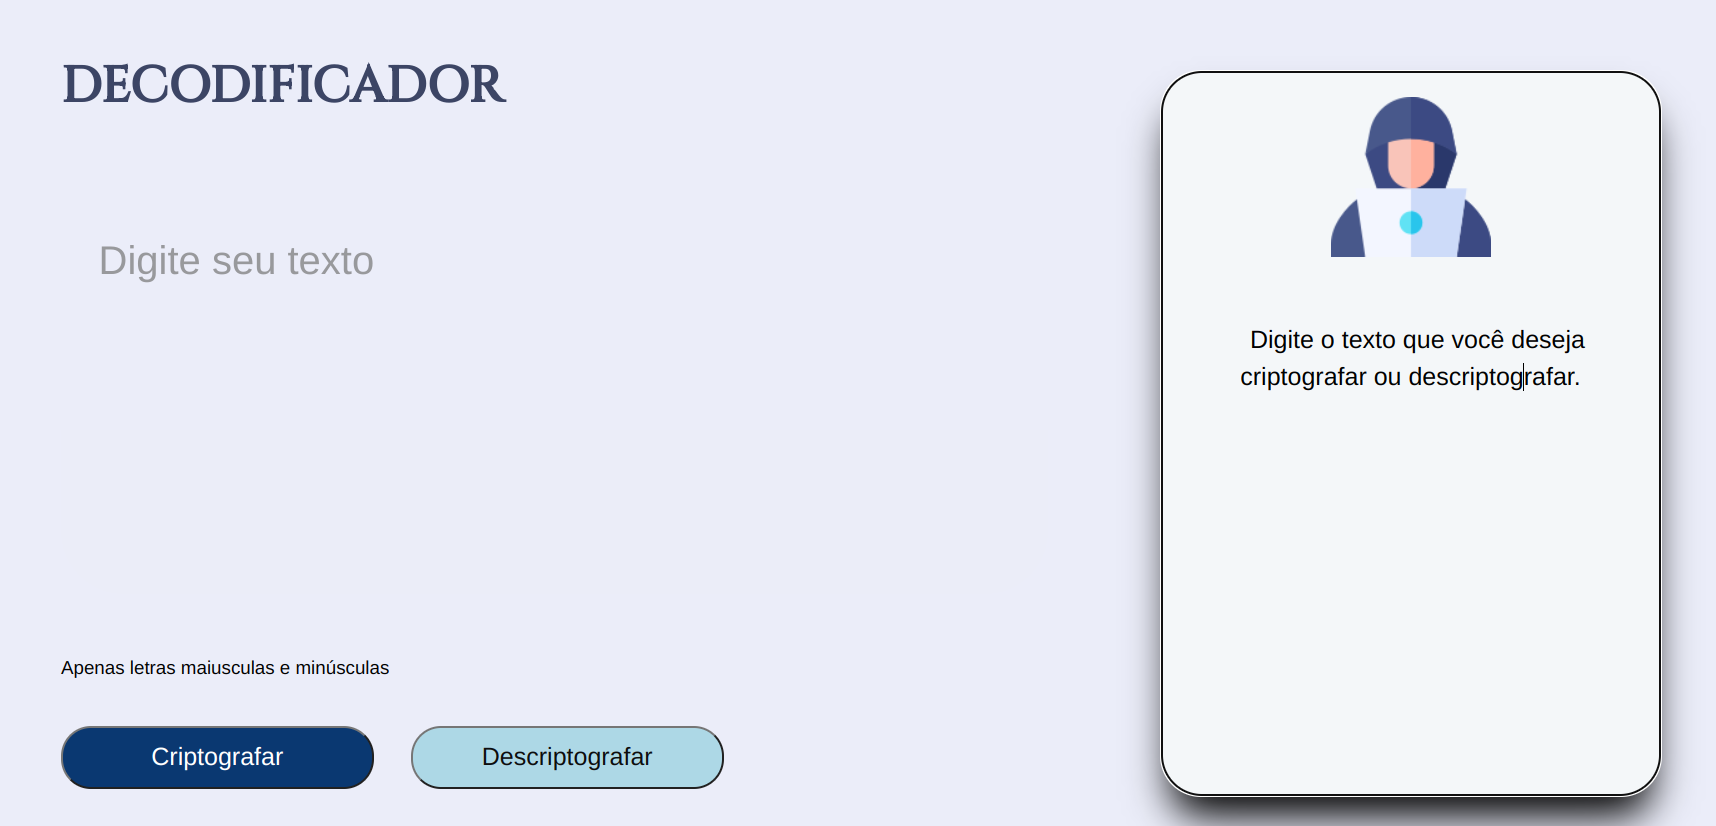
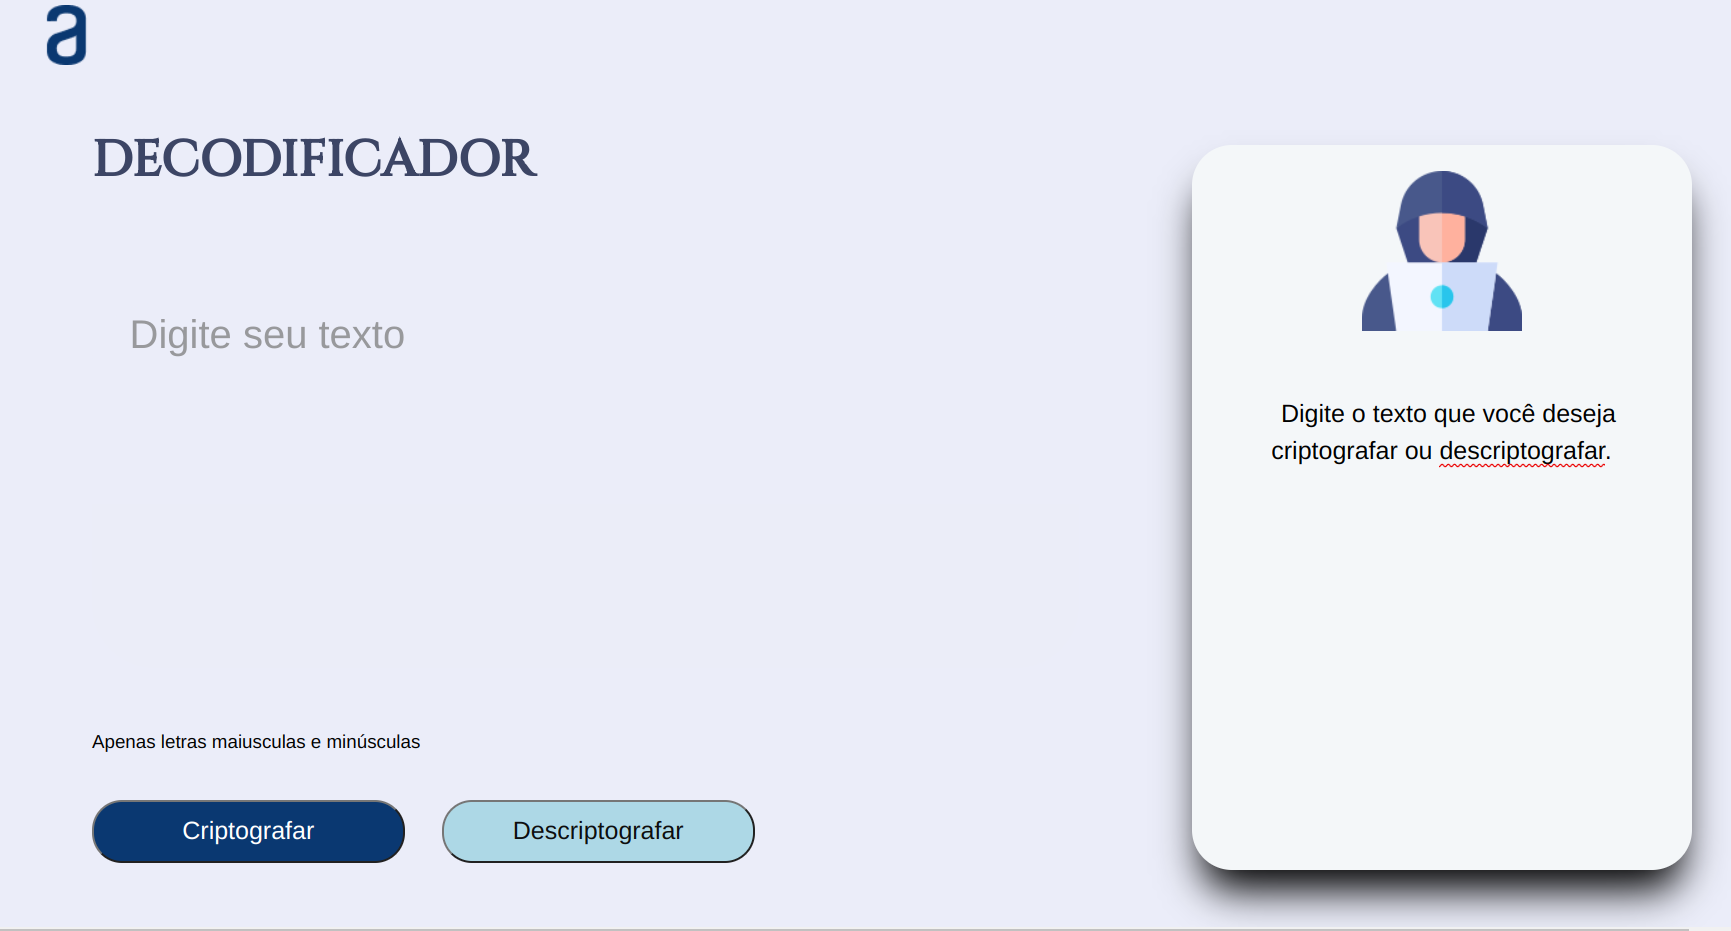
Modificando cards

diff --git a/index.html b/index.html
@@ -342,7 +342,7 @@
                                             <div class="d-flex justify-content-center">
                                                 <a href="https://laurienyestevo.github.io/digital-watch/"
                                                     target='_blank' class="btn btn-outline-dark me-3"><i class="bi bi-github"></i></a>
-                                                <a href="" target='_blank'
+                                                <a href="https://laurienyestevo.github.io/digital-watch/" target='_blank'
                                                     class="btn btn-outline-primary"><i class="bi bi-link-45deg"></i></a>
                                             </div>
                                         </div>
@@ -350,8 +350,10 @@
                                 </div>
                                 <div class="col">
                                     <div class="card">
-                                        <img src="static/img/pomodore.png" class="card-img-top img-fluid w-100"
+                                        <a href="https://laurienyestevo.github.io/pomodore/">
+                                            <img src="static/img/pomodore.png" class="card-img-top img-fluid w-100"
                                             alt="print do pomodoro">
+                                        </a>
                                         <div class="card-body">
                                             <h5 class="card-title">Pomodoro</h5>
                                             <p class="card-text">Projeto utilizando CSS , HTML e JavaScript</p>
@@ -372,14 +374,14 @@
                             <div class="row row-cols-1 row-cols-md-3 g-4">
                                 <div class="col">
                                     <div class="card h-100">
-                                        <img src="static/img/decodificador.png" class="card-img-top img-fluid w-100"
+                                        <img src="static/img/decodificador.png"  class="card-img-top img-fluid w-100 h-300"
                                             alt="print do site decodificador">
                                         <div class="card-body">Decodificador</h5>
                                             <p class="card-text">Projeto utilizando CSS , HTML e JavaScript</p>
                                             <div class="d-flex justify-content-center">
                                                 <a href="https://github.com/laurienyestevo/Decodificador" target='_blank'
                                                     class="btn btn-outline-dark me-3"><i class="bi bi-github"></i></a>
-                                                <a href="https://laurienyestevo.github.io/Decodificador/" target='_blank'
+                                                <a aria-label="botão de link para o site Decodificador" href="https://laurienyestevo.github.io/Decodificador/" target='_blank'
                                                     class="btn btn-outline-primary"><i class="bi bi-link-45deg"></i></a>
                                             </div>
 
@@ -438,7 +440,7 @@
                                     <button id='btn-enviar' type="submit" class="btn btn-primary">Enviar
                                         mensagem</button>
 
-                                    <button id='btn-enviar-loader' class="btn btn-primary" type="button" disabled>
+                                    <button aria-label="Botão de enviar" id='btn-enviar-loader' class="btn btn-primary" type="button" disabled>
                                         <span class="spinner-border spinner-border-sm" role="status"
                                             aria-hidden="true"></span>
                                         Enviando...
